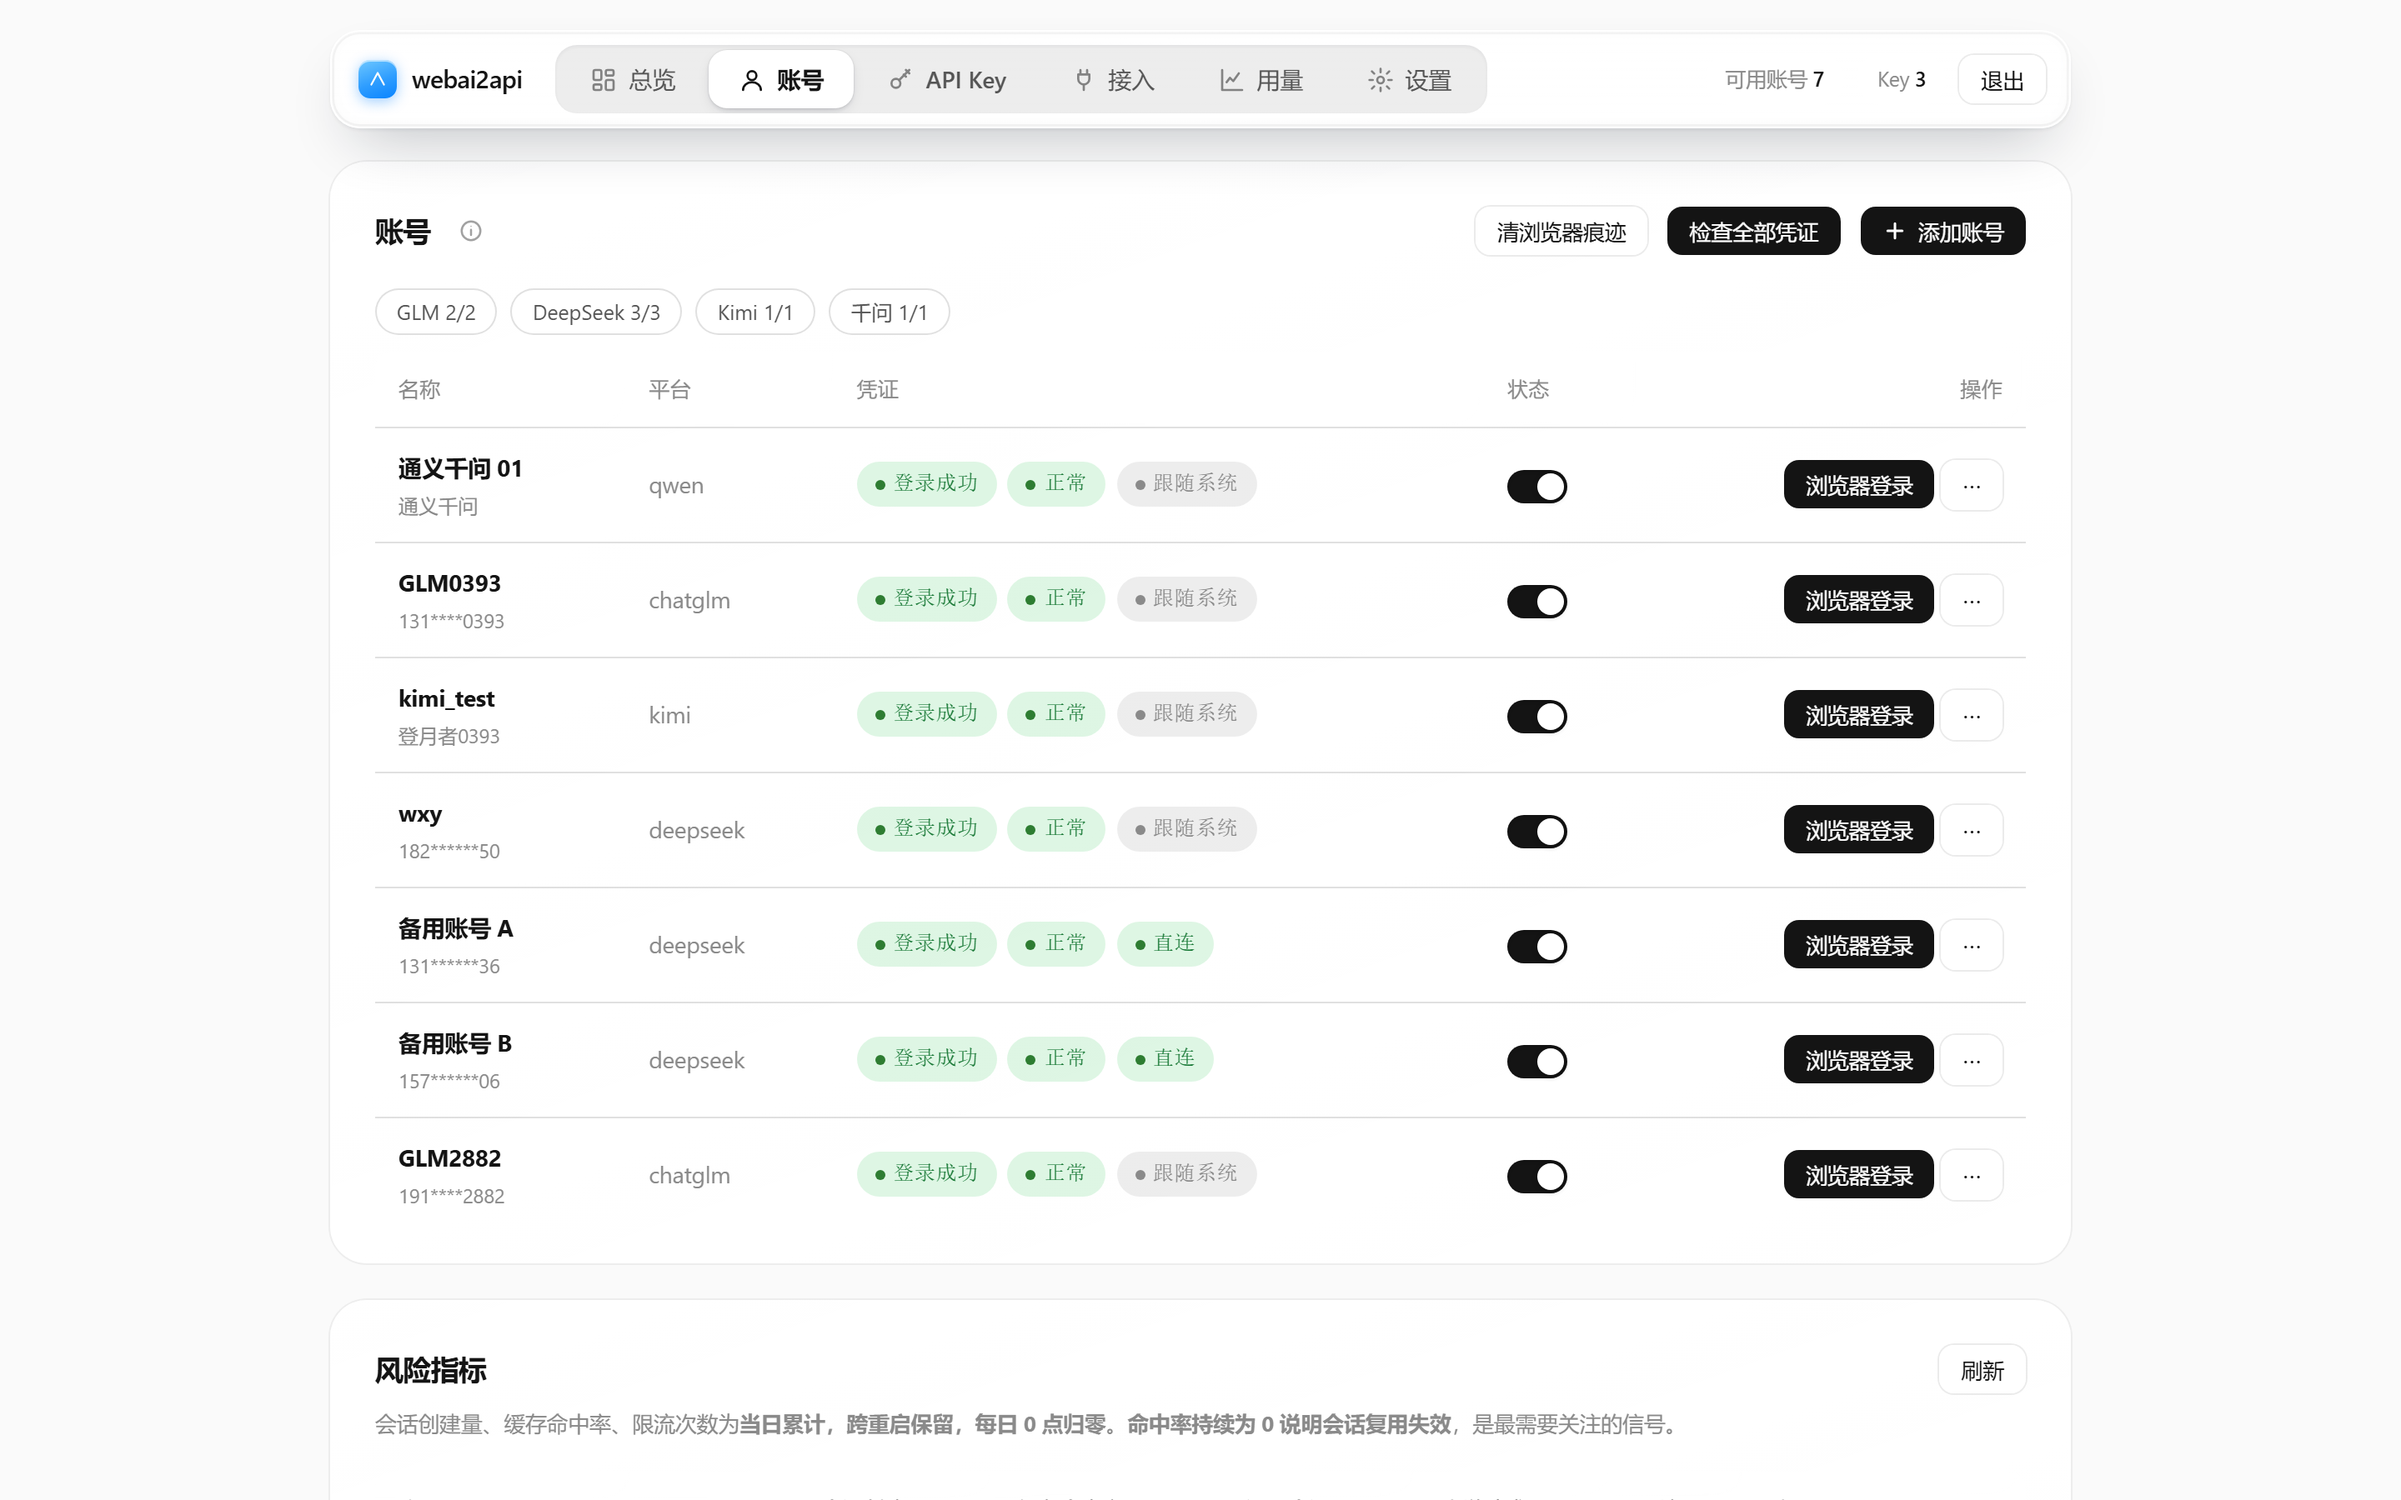
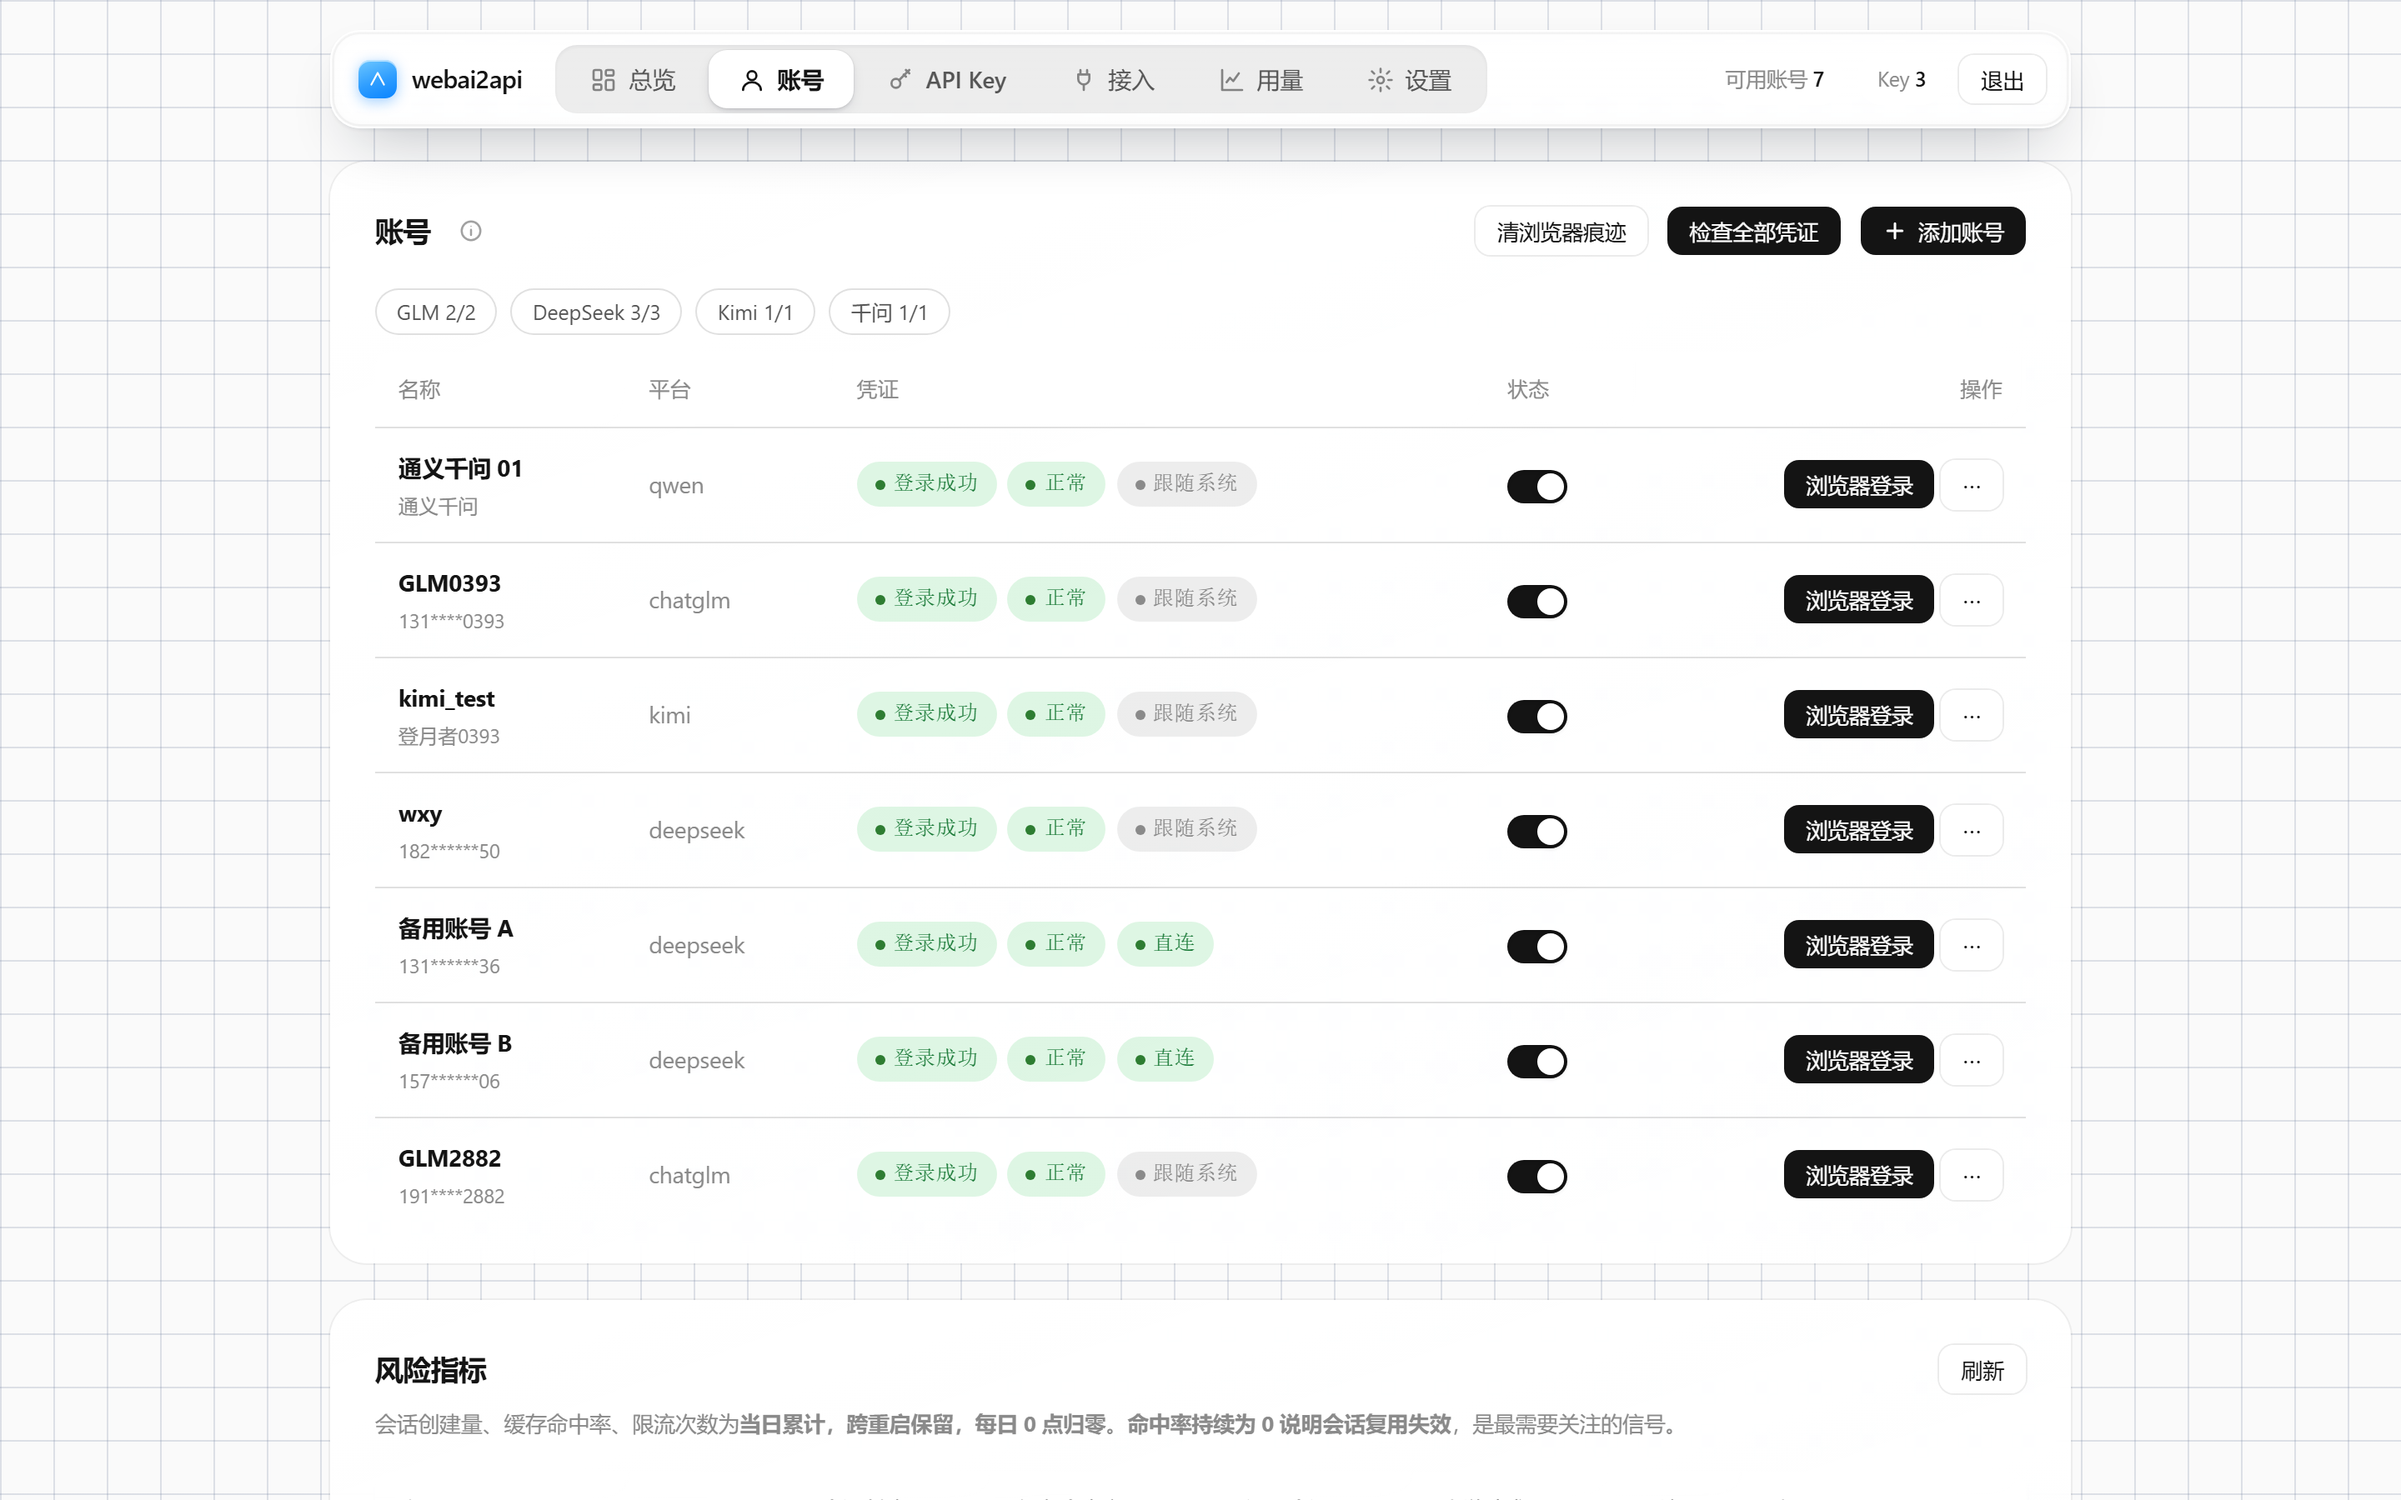
docs: README 截图全量换方格图案底版并新增登录页首图——Playwright 设 wapi_pattern=grid 后逐页重截（总览/账号/Key/用量/接入 + 登录页），截图时账号名与健康临时净化、真实数据已恢复；通知条仅在截图内隐藏

Changed region(s): [[0.8438, 0.9956, 1.0, 1.0], [0.0, 0.9956, 0.1562, 1.0]]

diff --git a/README_EN.md b/README_EN.md
@@ -10,6 +10,8 @@ your machine; ships as a ready-to-run Windows executable.
 
 **Overview** — account health, per-model usage and request stats at a glance:
 
+![Login](docs/screenshots/login.png)
+
 ![Overview](docs/screenshots/overview.png)
 
 | Accounts | API Keys |
